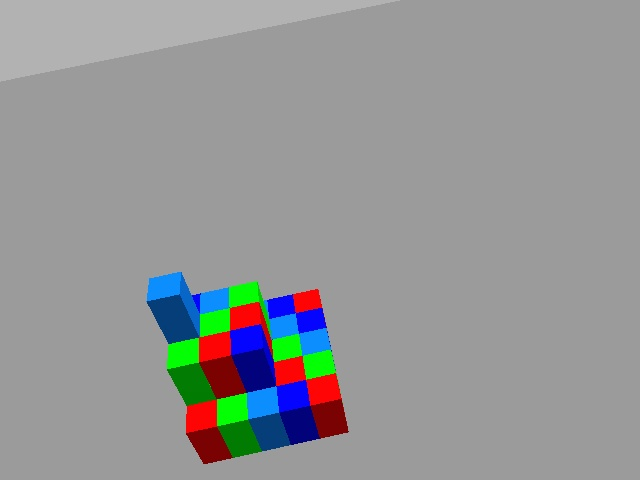
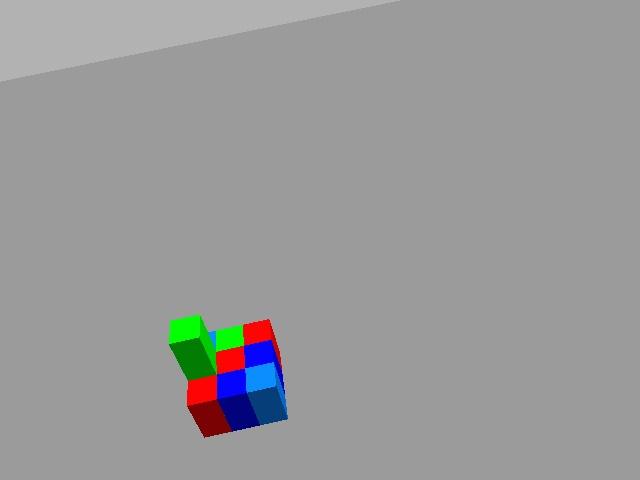
reduced structure size

Changed region(s): [[0.2188, 0.5625, 0.5625, 0.9688]]

diff --git a/src/world_simulation/src/add_block.py b/src/world_simulation/src/add_block.py
@@ -27,9 +27,13 @@ import utils as utils
 
 def main():
     world_sim = WorldSimulation()
+    create_world_with_structure(world_sim)
 
+
+
+def create_world_with_structure(world_sim):
     x, y = 2, 0
-    side_lengths = [5, 3, 1]  # must be in descending order
+    side_lengths = [3, 1]  # must be in descending order
     for i, side_length in enumerate(side_lengths):
         world_sim.add_square_2d(x, y, side_length, i * world_sim.block_size[2])
 
@@ -196,7 +200,6 @@ class WorldSimulation:
         iyy = (1.0 / 12) * self.block_mass * (x*x + z*z)
         izz = (1.0 / 12) * self.block_mass * (x*x + y*y)
         self.block_inertia = (ixx, iyy, izz)
-
         block_inertia_str = self.BLOCK_INERTIA_TEMPLATE.format(*self.block_inertia)
         self.block_xml = self.block_xml.replace(self.BLOCK_INERTIA_DEFAULT, block_inertia_str)
 
@@ -207,7 +210,6 @@ class WorldSimulation:
         colored_xml = self.block_xml
         if color is not None:
             colored_xml = self.block_xml.replace(self.BLOCK_DEFAULT_COLOR, self.BLOCK_COLOR_TEMPLATE.format(color))
-
         rospy.wait_for_service(const.Gazebo.SPAWN_URDF_MODEL)
         try:
             spawn_urdf = rospy.ServiceProxy(const.Gazebo.SPAWN_URDF_MODEL, SpawnModel)
